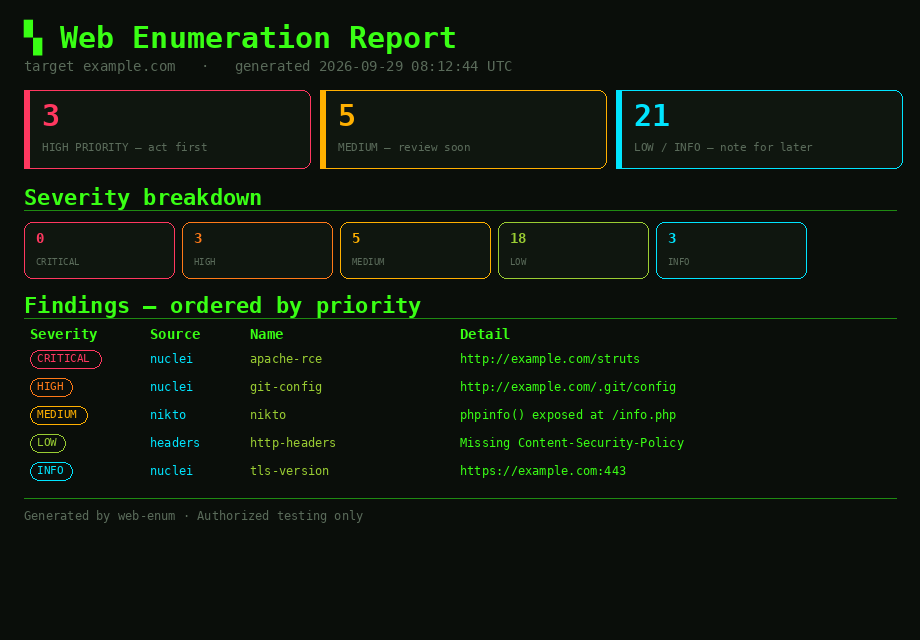
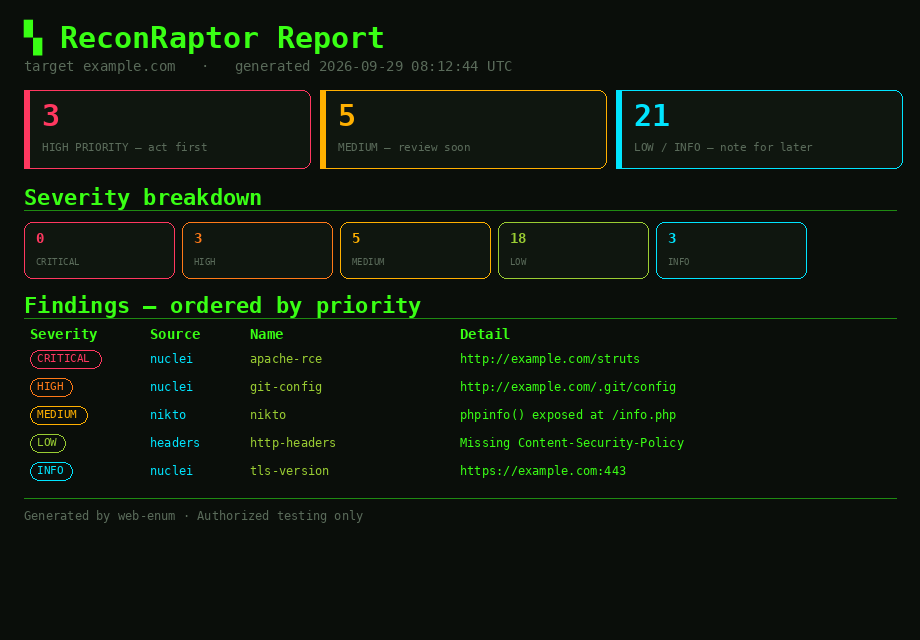
Rebrand to ReconRaptor; add MIT LICENSE and install guide
- Rename web-enum.sh -> recon-raptor.sh, web-enum-gui.py -> recon-raptor-gui.py
- Update banner, titles, and all internal references
- Add MIT LICENSE + license badge
- Add fresh-Kali install/setup section to README
- Regenerate screenshots with ReconRaptor branding

Changed region(s): [[0.0609, 0.0312, 0.487, 0.0938]]

diff --git a/recon-raptor-gui.py b/recon-raptor-gui.py
@@ -1,6 +1,6 @@
 #!/usr/bin/env python3
 """
-web-enum-gui.py - Hacker-themed Tkinter front-end for web-enum.sh
+recon-raptor-gui.py - Hacker-themed Tkinter front-end for recon-raptor.sh
 
 Two tabs:
   [ Scan ]     enter a target, pick steps/presets, watch live colour output
@@ -8,7 +8,7 @@ Two tabs:
 
 Authorized targets only. Run only against systems you own or may test.
 
-Usage:  python3 web-enum-gui.py
+Usage:  python3 recon-raptor-gui.py
 Needs:  python3-tk  (sudo apt install python3-tk -- usually preinstalled on Kali)
 """
 import os
@@ -26,7 +26,7 @@ except Exception:  # pragma: no cover
     report = None
 
 SCRIPT_DIR = os.path.dirname(os.path.abspath(__file__))
-SCRIPT = os.path.join(SCRIPT_DIR, "web-enum.sh")
+SCRIPT = os.path.join(SCRIPT_DIR, "recon-raptor.sh")
 RESULTS_DIR = os.path.join(SCRIPT_DIR, "results")
 MAX_VIEW_BYTES = 2_000_000  # don't load huge files fully into the viewer
 
@@ -44,15 +44,16 @@ FONT    = ("DejaVu Sans Mono", 10)
 FONT_B  = ("DejaVu Sans Mono", 11, "bold")
 
 BANNER = r"""
- __      __      _      _____
- \ \    / /     | |    | ____|_ __  _   _ _ __ ___
-  \ \/\/ /  ___ | |__  |  _| | '_ \| | | | '_ ` _ \
-   \_/\_/  / -_)| '_ \ | |___| | | | |_| | | | | | |
-          \___||_.__/ |_____|_| |_|\__,_|_| |_| |_|
+ ____                      ____             _
+|  _ \ ___  ___ ___  _ __ |  _ \ __ _ _ __ | |_ ___  _ __
+| |_) / _ \/ __/ _ \| '_ \| |_) / _` | '_ \| __/ _ \| '__|
+|  _ <  __/ (_| (_) | | | |  _ < (_| | |_) | || (_) | |
+|_| \_\___|\___\___/|_| |_|_| \_\__,_| .__/ \__\___/|_|
+                                     |_|
         [ authorized recon only // stay legal ]
 """
 
-# Steps -> the RUN_STEPS env token the script understands (see web-enum.sh).
+# Steps -> the RUN_STEPS env token the script understands (see recon-raptor.sh).
 STEPS = [
     ("DNS / WHOIS", "dns"),
     ("Subdomain enum", "subs"),
@@ -107,7 +108,7 @@ class EnumGUI:
         self.cur_target_dir = None
         self.file_index = []  # parallel to listbox rows: absolute paths
 
-        root.title("Web Enum // recon console")
+        root.title("ReconRaptor // recon console")
         root.geometry("960x760")
         root.minsize(800, 600)
         root.configure(bg=BG)
@@ -219,7 +220,7 @@ class EnumGUI:
                            highlightthickness=0, anchor="w").grid(
                 row=i // 4, column=i % 4, sticky="w", padx=10, pady=4)
 
-        # --- advanced options (map to env vars web-enum.sh reads) ---
+        # --- advanced options (map to env vars recon-raptor.sh reads) ---
         opt = tk.LabelFrame(root, text=" options ", font=FONT, fg=FG, bg=BG,
                             bd=1, relief="groove", labelanchor="nw")
         opt.pack(fill="x", **pad)
@@ -654,7 +655,7 @@ class EnumGUI:
         env = dict(os.environ)
         env["RUN_STEPS"] = ",".join(steps)
 
-        # Advanced options -> env vars web-enum.sh honours. Only set non-empty
+        # Advanced options -> env vars recon-raptor.sh honours. Only set non-empty
         # entries so the script's own defaults still apply when a field is blank.
         wl = self.wl_entry.get().strip()
         if wl:

diff --git a/report.py b/report.py
@@ -1,6 +1,6 @@
 #!/usr/bin/env python3
 """
-report.py - Parse a web-enum results folder, rank findings by severity, and
+report.py - Parse a ReconRaptor results folder, rank findings by severity, and
 render a self-contained HTML report.
 
 Standalone usage:
@@ -408,7 +408,7 @@ def render_html(data):
            padding-top:12px; }}
 </style></head>
 <body><div class="wrap">
-  <h1>▚ Web Enumeration Report</h1>
+  <h1>▚ ReconRaptor Report</h1>
   <div class="meta">target <b style="color:#39ff14">{e(data['target'])}</b>
      &nbsp;·&nbsp; generated {e(data['generated'])}</div>
 
@@ -445,7 +445,7 @@ def render_html(data):
   </div>
 
   <div class="foot">
-    Generated by web-enum · Authorized testing only — run only against systems you
+    Generated by ReconRaptor · Authorized testing only — run only against systems you
     own or are explicitly permitted to test.
   </div>
 </div></body></html>"""

diff --git a/README.md b/README.md
@@ -1,12 +1,15 @@
 <div align="center">
 
 ```
-██     ██ ███████ ██████       ███████ ███    ██ ██    ██ ███    ███
-██     ██ ██      ██   ██      ██      ████   ██ ██    ██ ████  ████
-██  █  ██ █████   ██████       █████   ██ ██  ██ ██    ██ ██ ████ ██
-██ ███ ██ ██      ██   ██      ██      ██  ██ ██ ██    ██ ██  ██  ██
- ███ ███  ███████ ██████       ███████ ██   ████  ██████  ██      ██
+ ____                      ____             _
+|  _ \ ___  ___ ___  _ __ |  _ \ __ _ _ __ | |_ ___  _ __
+| |_) / _ \/ __/ _ \| '_ \| |_) / _` | '_ \| __/ _ \| '__|
+|  _ <  __/ (_| (_) | | | |  _ < (_| | |_) | || (_) | |
+|_| \_\___|\___\___/|_| |_|_| \_\__,_| .__/ \__\___/|_|
+                                     |_|
 ```
+
+# ReconRaptor
 
 **`[ chained web recon for Kali — one target in, a ranked report out ]`**
 
@@ -15,7 +18,8 @@
 ![Platform](https://img.shields.io/badge/platform-Kali%20Linux-1f8a12?style=flat-square&logo=kalilinux&logoColor=39ff14&labelColor=0a0e0a)
 ![GUI](https://img.shields.io/badge/GUI-Tkinter-1f8a12?style=flat-square&labelColor=0a0e0a)
 ![Tests](https://img.shields.io/badge/tests-passing-39ff14?style=flat-square&labelColor=0a0e0a)
-![License](https://img.shields.io/badge/use-authorized%20only-ff3860?style=flat-square&labelColor=0a0e0a)
+![License](https://img.shields.io/badge/license-MIT-39ff14?style=flat-square&labelColor=0a0e0a)
+![Use](https://img.shields.io/badge/use-authorized%20only-ff3860?style=flat-square&labelColor=0a0e0a)
 
 </div>
 
@@ -27,7 +31,7 @@
 > Run these **only** against systems you own or have **explicit written
 > permission** to test. Unauthorized scanning is illegal.
 
-`web-enum` chains the common recon tools (`nmap`, `whatweb`, `curl`,
+**ReconRaptor** chains the common recon tools (`nmap`, `whatweb`, `curl`,
 `gobuster`/`feroxbuster`, `nikto`, `nuclei`, `subfinder`/`httpx`) into a single
 run, saves every step to a per-target folder, and rolls the findings up into a
 severity-ranked HTML + JSON report — from the CLI or a dark, terminal-style GUI.
@@ -57,32 +61,45 @@ severity-ranked HTML + JSON report — from the CLI or a dark, terminal-style GU
 
 ---
 
-## ▚ Files
+## ▚ Install (fresh Kali box)
 
-| File | What it does |
-|------|--------------|
-| `web-enum.sh` | Full pipeline: reachability check (HTTPS auto-probe), DNS/whois, subdomain enum, nmap, HTTP fingerprint, robots, dir brute, nikto, nuclei, plus a `00_summary.txt` roll-up. Per-step timeouts; skips missing tools gracefully; **resumes** by skipping completed steps (`FORCE=1` to redo). Emits **structured output** (nmap XML, nikto JSON, nuclei JSONL) alongside human-readable text. |
-| `oneliner.sh` | Compact chain (subdomains + nuclei) for quick runs; guards each tool. |
-| `web-enum-gui.py` | Hacker-themed Tkinter console (Scan / Dashboard / Results) with presets, an options panel (wordlist, timeouts, force re-scan), colour-coded live output, a severity dashboard, and one-click HTML report. Wraps `web-enum.sh`. |
-| `report.py` | Parses a results folder (prefers structured tool output, falls back to text), ranks findings by severity, renders a self-contained HTML report **and** a machine-readable `report.json`. |
-| `tests/` | `unittest` suite for `report.py`'s parsers. |
+```console
+# 1. Core tools (most ship with Kali; this makes sure)
+$ sudo apt update
+$ sudo apt install -y nmap whatweb curl nikto gobuster ffuf \
+      dnsutils whois python3-tk seclists
+
+# 2. Go-based recon tools (if not already present)
+$ sudo apt install -y subfinder httpx-toolkit nuclei   # or install via `go install`
+
+# 3. Update nuclei templates (first run only)
+$ nuclei -update-templates
+
+# 4. Grab ReconRaptor and make the scripts executable
+$ git clone <your-repo-url> reconraptor   # or unzip the release
+$ cd reconraptor
+$ chmod +x recon-raptor.sh oneliner.sh
+
+# 5. Sanity check
+$ python3 -m unittest discover -s tests
+```
+
+Missing tools are skipped gracefully — you don't need every one of them.
 
 ---
 
 ## ▚ Quick start
 
 ```console
-$ chmod +x web-enum.sh oneliner.sh
-
 # Full run (writes results/<host>/)
-$ ./web-enum.sh example.com
-$ ./web-enum.sh https://10.10.10.10 results/box1
+$ ./recon-raptor.sh example.com
+$ ./recon-raptor.sh https://10.10.10.10 results/box1
 
 # Quick one-liner chain
 $ ./oneliner.sh 10.10.10.10
 
 # GUI (desktop app)
-$ python3 web-enum-gui.py
+$ python3 recon-raptor-gui.py
 ```
 
 Results land under `results/<host>/`, with `00_summary.txt` as the roll-up.
@@ -91,7 +108,7 @@ Results land under `results/<host>/`, with `00_summary.txt` as the roll-up.
 
 ## ▚ GUI
 
-A dark, terminal-style front-end for `web-enum.sh` with three tabs.
+A dark, terminal-style front-end for `recon-raptor.sh` with three tabs.
 
 **`Scan`**
 - Enter the **target** (Enter runs it) and, optionally, an **output dir**.
@@ -136,7 +153,7 @@ Pick which steps run via the `RUN_STEPS` env var (comma-separated tokens
 CLI honours it too:
 
 ```console
-$ RUN_STEPS=nmap,nuclei ./web-enum.sh target.tld
+$ RUN_STEPS=nmap,nuclei ./recon-raptor.sh target.tld
 ```
 
 ---
@@ -145,19 +162,31 @@ $ RUN_STEPS=nmap,nuclei ./web-enum.sh target.tld
 
 ```console
 # Different wordlist
-$ WL_DIR=/usr/share/wordlists/dirbuster/directory-list-2.3-medium.txt ./web-enum.sh target.tld
+$ WL_DIR=/usr/share/wordlists/dirbuster/directory-list-2.3-medium.txt ./recon-raptor.sh target.tld
 
 # Tune timeouts (seconds): per-request, hard cap per step, nikto's own budget
-$ NET_TIMEOUT=30 STEP_TIMEOUT=900 NIKTO_TIMEOUT=300 ./web-enum.sh target.tld
+$ NET_TIMEOUT=30 STEP_TIMEOUT=900 NIKTO_TIMEOUT=300 ./recon-raptor.sh target.tld
 
 # Resume a partial run (skips completed steps) ...
-$ ./web-enum.sh target.tld
+$ ./recon-raptor.sh target.tld
 # ... or force a full re-scan
-$ FORCE=1 ./web-enum.sh target.tld
+$ FORCE=1 ./recon-raptor.sh target.tld
 ```
 
 Every run appends to `results/<host>/.runs.log` (timestamp, steps, resolved URL)
 and rewrites `results/<host>/00_summary.txt`.
+
+---
+
+## ▚ Files
+
+| File | What it does |
+|------|--------------|
+| `recon-raptor.sh` | Full pipeline: reachability check (HTTPS auto-probe), DNS/whois, subdomain enum, nmap, HTTP fingerprint, robots, dir brute, nikto, nuclei, plus a `00_summary.txt` roll-up. Per-step timeouts; skips missing tools gracefully; **resumes** completed steps (`FORCE=1` to redo). Emits **structured output** (nmap XML, nikto JSON, nuclei JSONL) alongside human-readable text. |
+| `oneliner.sh` | Compact chain (subdomains + nuclei) for quick runs; guards each tool. |
+| `recon-raptor-gui.py` | Hacker-themed Tkinter console (Scan / Dashboard / Results) with presets, an options panel, colour-coded live output, a severity dashboard, and one-click HTML report. Wraps `recon-raptor.sh`. |
+| `report.py` | Parses a results folder (prefers structured output, falls back to text), ranks findings by severity, renders a self-contained HTML report **and** a machine-readable `report.json`. |
+| `tests/` | `unittest` suite for `report.py`'s parsers. |
 
 ---
 
@@ -171,8 +200,6 @@ and rewrites `results/<host>/00_summary.txt`.
 - Wordlist at `/usr/share/wordlists/dirb/common.txt` (override `WL_DIR=…`)
 - Subdomain wordlist for the ffuf fallback (override `SUB_WL=…`)
 
-Missing tools are skipped gracefully — you don't need all of them.
-
 ---
 
 ## ▚ Tests
@@ -183,6 +210,12 @@ $ python3 -m unittest discover -s tests -v
 
 Covers the report parsers: structured (nmap XML / nikto JSON / nuclei JSONL),
 text fallback, header checks, and severity-inference edge cases.
+
+---
+
+## ▚ License
+
+[MIT](LICENSE) — for authorized security testing only.
 
 ---
 
